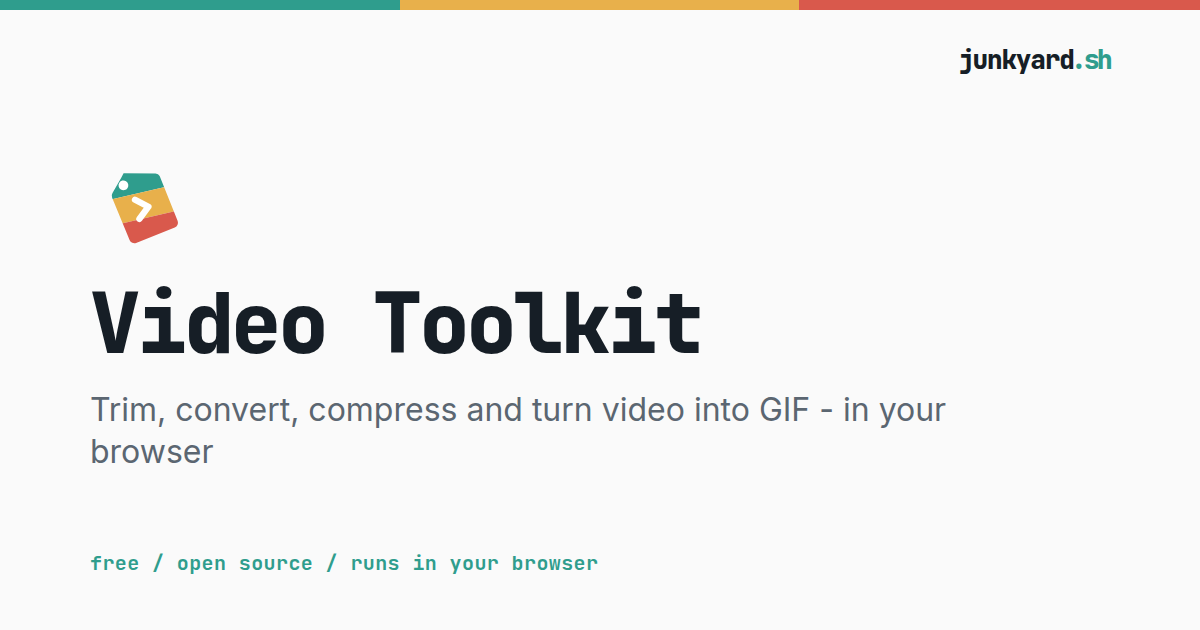
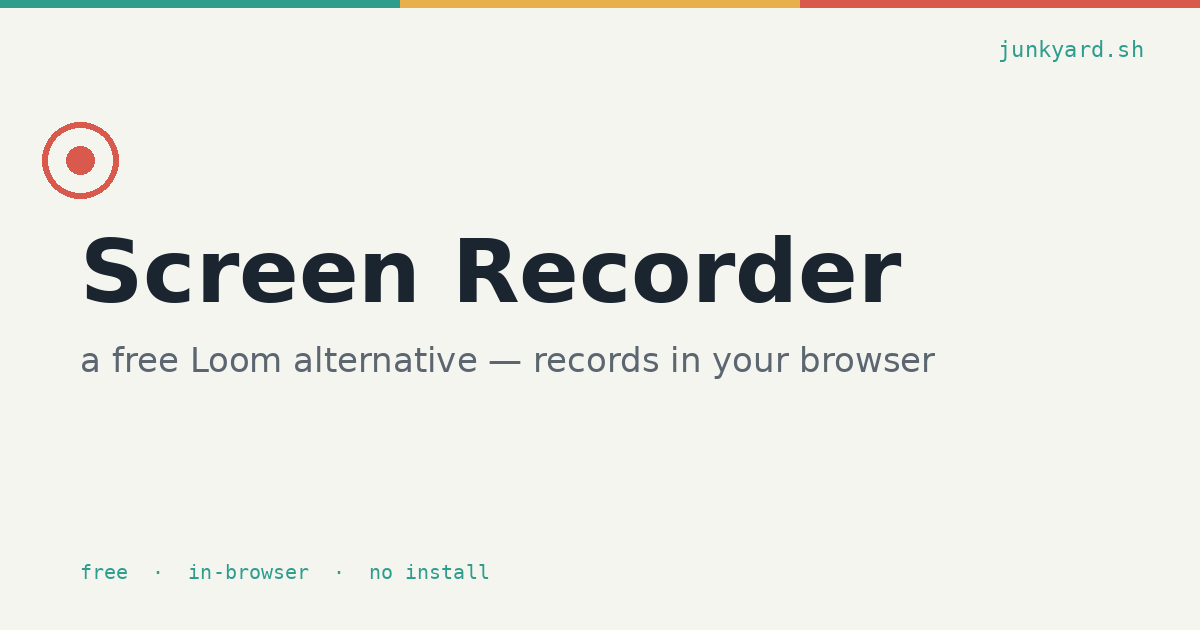
fix(#52 + cleanup): resume href scheme-guard, faviconCore test env fix, screen-recorder og image

diff --git a/apps/resume/src/__tests__/resumeUtils.test.ts b/apps/resume/src/__tests__/resumeUtils.test.ts
@@ -6,6 +6,7 @@ import {
   hasEducationContent,
   hasExperienceContent,
   parseSkills,
+  safeProjectUrl,
 } from "../lib/resumeUtils";
 import type { EducationEntry, ExperienceEntry } from "../store/useResumeStore";
 
@@ -156,5 +157,41 @@ describe("filteredBullets", () => {
 
   it("returns empty array for all-blank input", () => {
     expect(filteredBullets(["", " ", ""])).toEqual([]);
+  });
+});
+
+describe("safeProjectUrl", () => {
+  it("returns https URLs unchanged", () => {
+    expect(safeProjectUrl("https://github.com/user/repo")).toBe("https://github.com/user/repo");
+  });
+
+  it("returns http URLs unchanged", () => {
+    expect(safeProjectUrl("http://example.com")).toBe("http://example.com");
+  });
+
+  it("returns mailto URLs unchanged", () => {
+    expect(safeProjectUrl("mailto:[email redacted]")).toBe("mailto:[email redacted]");
+  });
+
+  it("blocks javascript: scheme — returns null", () => {
+    expect(safeProjectUrl("javascript:alert(1)")).toBeNull();
+  });
+
+  it("blocks data: scheme — returns null", () => {
+    expect(safeProjectUrl("data:text/html,<script>alert(1)</script>")).toBeNull();
+  });
+
+  it("blocks scheme-relative and bare paths — returns null", () => {
+    expect(safeProjectUrl("//evil.com")).toBeNull();
+    expect(safeProjectUrl("/local-path")).toBeNull();
+  });
+
+  it("returns null for blank input", () => {
+    expect(safeProjectUrl("")).toBeNull();
+    expect(safeProjectUrl("   ")).toBeNull();
+  });
+
+  it("trims whitespace before checking", () => {
+    expect(safeProjectUrl("  https://example.com  ")).toBe("https://example.com");
   });
 });

diff --git a/apps/resume/src/lib/resumeUtils.ts b/apps/resume/src/lib/resumeUtils.ts
@@ -55,3 +55,15 @@ export function hasEducationContent(entry: EducationEntry): boolean {
 export function filteredBullets(bullets: string[]): string[] {
   return bullets.map((b) => b.trim()).filter((b) => b.length > 0);
 }
+
+/**
+ * Return the URL if it uses a safe scheme (https / http / mailto), or null.
+ * Blocks javascript:, data:, and any other non-safe schemes so project URLs
+ * cannot become clickable code-execution vectors. Mirrors the guard in
+ * mdInline.ts runsToHtml() which covers inline markdown links.
+ */
+export function safeProjectUrl(url: string): string | null {
+  const trimmed = url.trim();
+  if (!trimmed) return null;
+  return /^(https?:\/\/|mailto:)/i.test(trimmed) ? trimmed : null;
+}

diff --git a/apps/resume/src/components/ResumePreview.tsx b/apps/resume/src/components/ResumePreview.tsx
@@ -1,5 +1,5 @@
 import { mdToHtml } from "../lib/mdInline";
-import { filteredBullets, formatDateRange, parseSkills } from "../lib/resumeUtils";
+import { filteredBullets, formatDateRange, parseSkills, safeProjectUrl } from "../lib/resumeUtils";
 import { useResumeStore } from "../store/useResumeStore";
 import { LoadSampleButton } from "./LoadSampleButton";
 
@@ -210,9 +210,9 @@ export function ResumePreview() {
                   <div key={p.id} className="resume-entry">
                     <div className="resume-entry-header">
                       <span className="resume-entry-title">
-                        {p.url.trim() ? (
+                        {safeProjectUrl(p.url) ? (
                           <a
-                            href={p.url.trim()}
+                            href={safeProjectUrl(p.url) as string}
                             target="_blank"
                             rel="noopener noreferrer"
                             className="resume-entry-link"
@@ -220,7 +220,7 @@ export function ResumePreview() {
                             {p.name.trim() || p.url.trim()}
                           </a>
                         ) : (
-                          p.name.trim() || "(Untitled project)"
+                          p.name.trim() || p.url.trim() || "(Untitled project)"
                         )}
                       </span>
                     </div>

diff --git a/apps/favicon/src/test-setup.ts b/apps/favicon/src/test-setup.ts
@@ -1,0 +1,7 @@
+import { JSDOM } from 'jsdom'
+const dom = new JSDOM('', { url: 'http://localhost' })
+// Expose jsdom globals needed by canvas-based tests
+;(globalThis as any).HTMLCanvasElement = dom.window.HTMLCanvasElement
+;(globalThis as any).HTMLImageElement = dom.window.HTMLImageElement
+;(globalThis as any).Image = dom.window.Image
+;(globalThis as any).document = dom.window.document